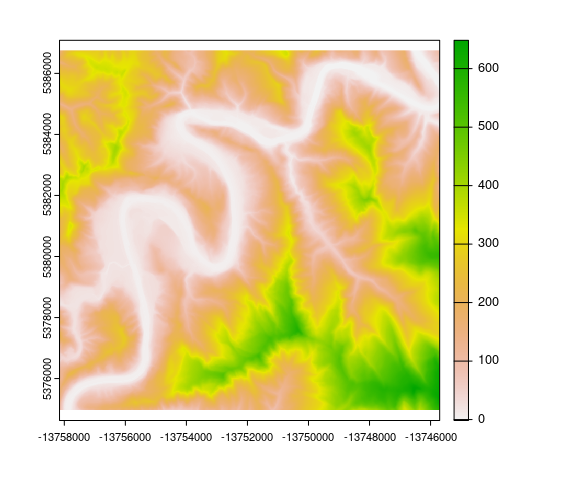
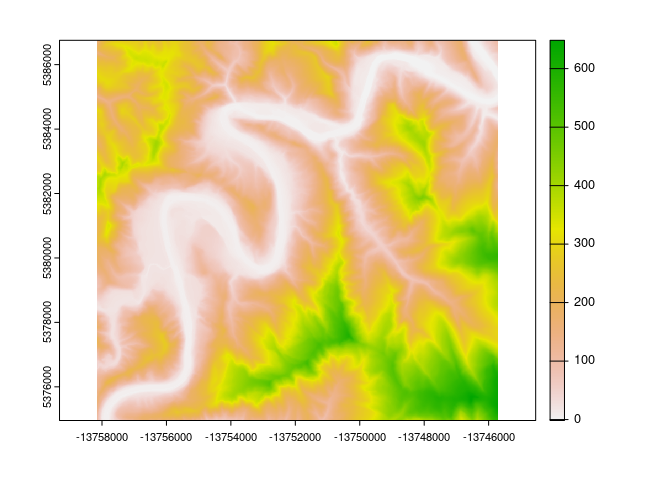
Update readme

diff --git a/README.md b/README.md
@@ -57,13 +57,7 @@ dem <- sf::st_as_sf(
   terrainr::get_tiles() |> 
   purrr::chuck("elevation") |> 
   terrainr::merge_rasters()
-
-terra::plot(
-  terra::rast(dem)
-)
 ```
-
-![](man/figures/README-unnamed-chunk-2-1.png)<!-- -->
 
 With our data downloaded, we’re ready to move on to actually using
 rrrem. The main workhorse of this package is the `make_rem()` function,
@@ -107,30 +101,36 @@ hillshade <- terra::shade(
 trimmed_rem <- rem
 trimmed_rem[trimmed_rem > 200] <- 200
 
+par(
+  oma = c(0, 0, 0, 0),
+  mar = c(0, 0, 0, 0),
+  mgp = c(0, 0, 0)
+)
+
+
 terra::plot(
   hillshade, 
   col = grey(0:100/100), 
   legend = FALSE, 
   axes = FALSE,
+  oma = NA,
   mar = NA,
   xaxs="i", 
   yaxs="i"
 )
+
 
 terra::plot(
   trimmed_rem,
   col = viridis::mako(50, direction = -1), 
   legend = FALSE, 
   axes = FALSE,
-  mar = NA,
   add = TRUE,
-  alpha = 0.75,
-  xaxs="i", 
-  yaxs="i"
+  alpha = 0.75
 )
 ```
 
-![](man/figures/README-unnamed-chunk-5-1.png)<!-- -->
+![](man/figures/README-2022-08-31-final_fig-1.png)<!-- -->
 
 ## Code of Conduct
 
